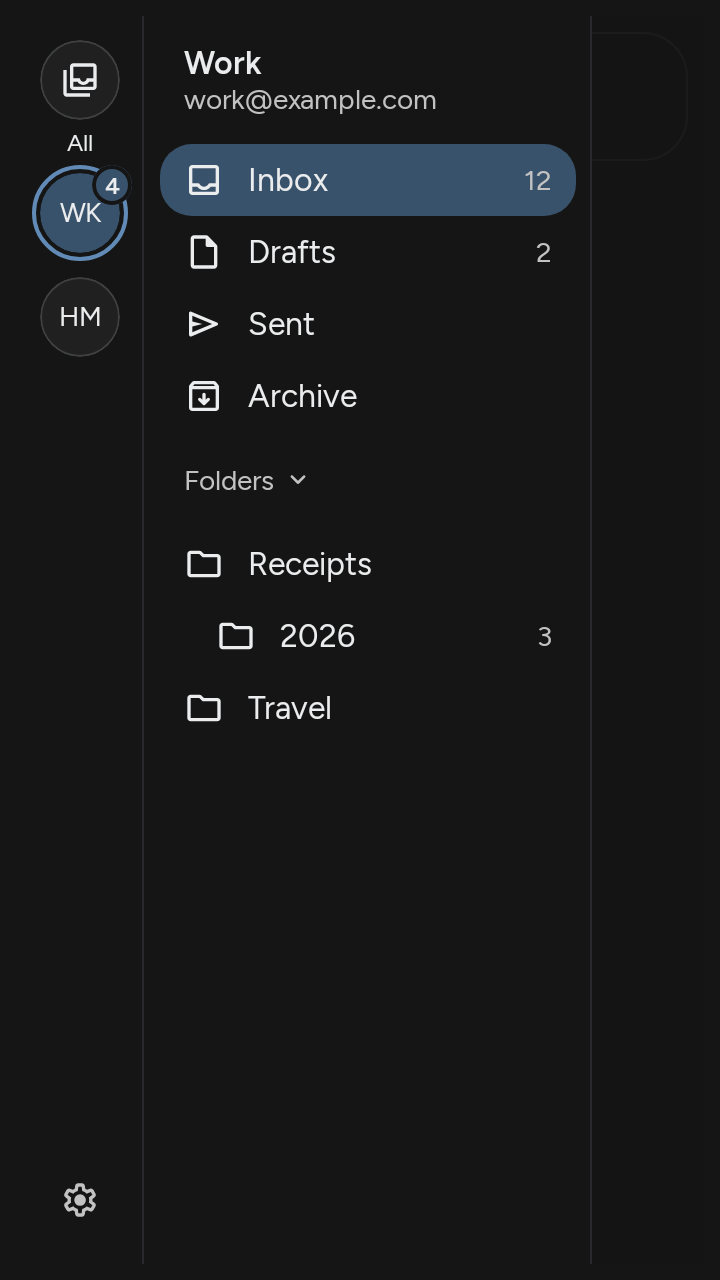
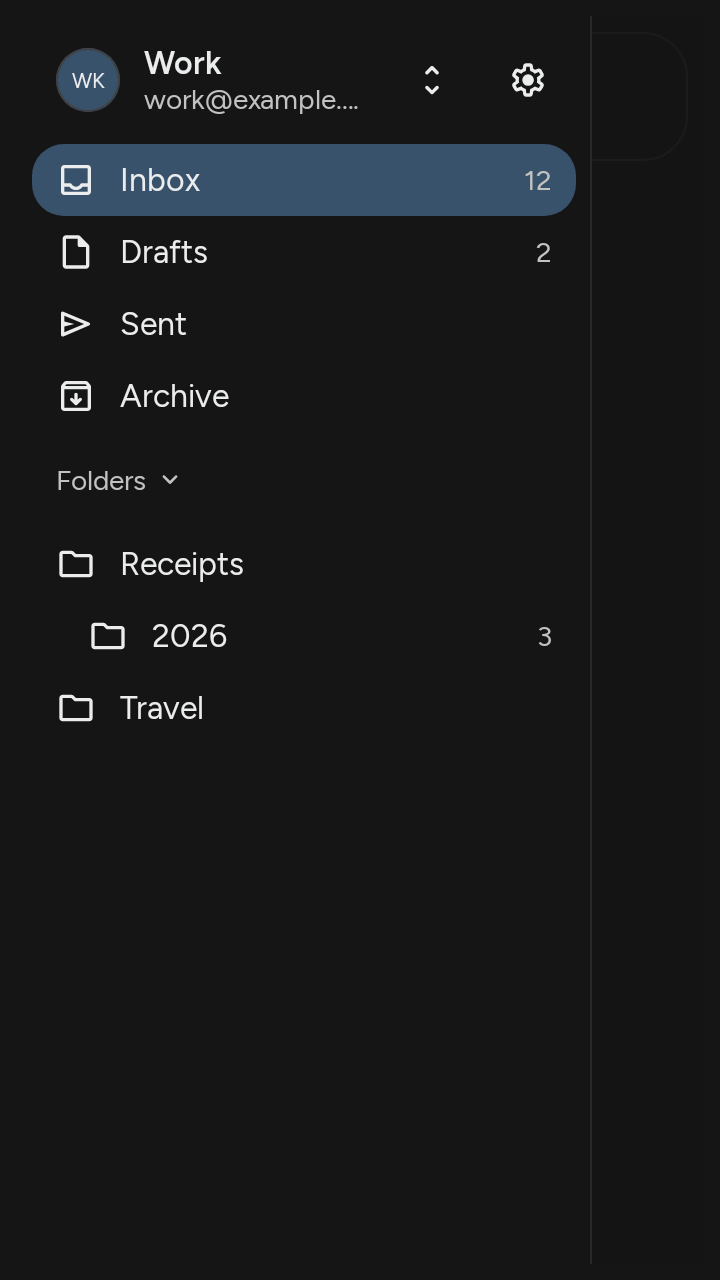
feat(design-system): add HtmlView for message bodies (#31)
* feat(design-system): add HtmlView for message bodies

- Show an HTML document in a platform web view: WebView on Android, WKWebView on iOS.
- Keep scripts off and block frames, forms, and outside resources with a Content Security Policy.
- Load remote images, styles, and fonts only with loadRemote, so tracking pixels stay blocked.
- Pass tapped web, mail, and phone links to onOpenLink; the view never navigates.
- Darken pages without their own dark colors on Android 13 and later.

* fix(designsystem): update screenshot tests for the new sidebar

- Give SidebarScreenshotTest the SidebarHeader that replaced the account rail, and record sidebar_open and sidebar_header.
- Remove SidebarRailItemScreenshotTest and its images, since #32 removed the rail elements.
- Name onClick in ContextMenuScreenshotTest, since MenuAction now takes icon second.
- Record reorderable_column_dragging, where #32 fills the dragged row with bgLight.

---------

diff --git a/designsystem/src/iosMain/kotlin/com/otus/designsystem/elements/HtmlView.ios.kt b/designsystem/src/iosMain/kotlin/com/otus/designsystem/elements/HtmlView.ios.kt
@@ -1,0 +1,70 @@
+package com.otus.designsystem.elements
+
+import androidx.compose.runtime.Composable
+import androidx.compose.runtime.getValue
+import androidx.compose.runtime.key
+import androidx.compose.runtime.remember
+import androidx.compose.runtime.rememberUpdatedState
+import androidx.compose.ui.Modifier
+import androidx.compose.ui.viewinterop.UIKitView
+import kotlinx.cinterop.ExperimentalForeignApi
+import kotlinx.cinterop.readValue
+import platform.CoreGraphics.CGRectZero
+import platform.WebKit.WKNavigationAction
+import platform.WebKit.WKNavigationActionPolicy
+import platform.WebKit.WKNavigationActionPolicy.WKNavigationActionPolicyAllow
+import platform.WebKit.WKNavigationActionPolicy.WKNavigationActionPolicyCancel
+import platform.WebKit.WKNavigationDelegateProtocol
+import platform.WebKit.WKNavigationTypeLinkActivated
+import platform.WebKit.WKWebView
+import platform.WebKit.WKWebViewConfiguration
+import platform.darwin.NSObject
+
+@OptIn(ExperimentalForeignApi::class)
+@Composable
+public actual fun HtmlView(
+    html: String,
+    loadRemote: Boolean,
+    onOpenLink: (String) -> Unit,
+    modifier: Modifier,
+) {
+    val openLink by rememberUpdatedState(onOpenLink)
+    val document = remember(html, loadRemote) { sandboxedHtml(html, loadRemote) }
+    // WebKit keeps only a weak reference to its delegate.
+    val delegate = remember { LinkDelegate { openLink(it) } }
+    key(document) {
+        UIKitView(
+            factory = {
+                val configuration =
+                    WKWebViewConfiguration().apply { defaultWebpagePreferences.allowsContentJavaScript = false }
+                WKWebView(CGRectZero.readValue(), configuration).apply {
+                    navigationDelegate = delegate
+                    setOpaque(false)
+                    loadHTMLString(document, baseURL = null)
+                }
+            },
+            modifier = modifier,
+        )
+    }
+}
+
+/** Allows only the document's own load; a tapped openable link goes to [onOpenLink]. */
+private class LinkDelegate(
+    private val onOpenLink: (String) -> Unit,
+) : NSObject(),
+    WKNavigationDelegateProtocol {
+    override fun webView(
+        webView: WKWebView,
+        decidePolicyForNavigationAction: WKNavigationAction,
+        decisionHandler: (WKNavigationActionPolicy) -> Unit,
+    ) {
+        val url =
+            decidePolicyForNavigationAction.request.URL
+                ?.absoluteString
+                .orEmpty()
+        val tapped = decidePolicyForNavigationAction.navigationType == WKNavigationTypeLinkActivated
+        if (tapped && isOpenableLink(url)) onOpenLink(url)
+        val ownLoad = url == "about:blank"
+        decisionHandler(if (ownLoad) WKNavigationActionPolicyAllow else WKNavigationActionPolicyCancel)
+    }
+}

diff --git a/designsystem/src/androidMain/kotlin/com/otus/designsystem/elements/HtmlView.android.kt b/designsystem/src/androidMain/kotlin/com/otus/designsystem/elements/HtmlView.android.kt
@@ -1,0 +1,73 @@
+package com.otus.designsystem.elements
+
+import android.content.Context
+import android.graphics.Color
+import android.os.Build
+import android.webkit.WebResourceRequest
+import android.webkit.WebView
+import android.webkit.WebViewClient
+import androidx.compose.runtime.Composable
+import androidx.compose.runtime.getValue
+import androidx.compose.runtime.key
+import androidx.compose.runtime.remember
+import androidx.compose.runtime.rememberUpdatedState
+import androidx.compose.ui.Modifier
+import androidx.compose.ui.viewinterop.AndroidView
+
+@Composable
+public actual fun HtmlView(
+    html: String,
+    loadRemote: Boolean,
+    onOpenLink: (String) -> Unit,
+    modifier: Modifier,
+) {
+    val openLink by rememberUpdatedState(onOpenLink)
+    val document = remember(html, loadRemote) { sandboxedHtml(html, loadRemote) }
+    // A new document gets a new view, so no page or setting of the last one carries over.
+    key(document) {
+        AndroidView(
+            factory = { context ->
+                sandboxedWebView(context, loadRemote) { openLink(it) }.apply {
+                    loadDataWithBaseURL(null, document, "text/html", "utf-8", null)
+                }
+            },
+            modifier = modifier,
+            onRelease = WebView::destroy,
+        )
+    }
+}
+
+/** Sets scripts and file access off even where that is the default, so a platform change cannot turn them on. */
+private fun sandboxedWebView(
+    context: Context,
+    loadRemote: Boolean,
+    onOpenLink: (String) -> Unit,
+): WebView =
+    WebView(context).apply {
+        setBackgroundColor(Color.TRANSPARENT)
+        settings.javaScriptEnabled = false
+        settings.allowFileAccess = false
+        settings.allowContentAccess = false
+        settings.blockNetworkLoads = !loadRemote
+        settings.loadWithOverviewMode = true
+        settings.useWideViewPort = true
+        settings.builtInZoomControls = true
+        settings.displayZoomControls = false
+        // Otus is dark, so pages without their own dark colors are darkened to match.
+        if (Build.VERSION.SDK_INT >= Build.VERSION_CODES.TIRAMISU) settings.isAlgorithmicDarkeningAllowed = true
+        webViewClient = LinkClient(onOpenLink)
+    }
+
+/** Keeps every navigation out of the view; a tapped openable link goes to [onOpenLink]. */
+private class LinkClient(
+    private val onOpenLink: (String) -> Unit,
+) : WebViewClient() {
+    override fun shouldOverrideUrlLoading(
+        view: WebView,
+        request: WebResourceRequest,
+    ): Boolean {
+        val url = request.url.toString()
+        if (request.isForMainFrame && request.hasGesture() && isOpenableLink(url)) onOpenLink(url)
+        return true
+    }
+}

diff --git a/designsystem/src/androidHostTest/kotlin/com/otus/designsystem/components/SidebarScreenshotTest.kt b/designsystem/src/androidHostTest/kotlin/com/otus/designsystem/components/SidebarScreenshotTest.kt
@@ -10,10 +10,7 @@ import androidx.compose.ui.unit.dp
 import com.otus.designsystem.elements.SidebarCount
 import com.otus.designsystem.elements.SidebarEntry
 import com.otus.designsystem.elements.SidebarHeading
-import com.otus.designsystem.elements.SidebarRailAccount
-import com.otus.designsystem.elements.SidebarRailIcon
 import com.otus.designsystem.resources.Res
-import com.otus.designsystem.resources.symbol_all_inbox
 import com.otus.designsystem.resources.symbol_archive
 import com.otus.designsystem.resources.symbol_draft
 import com.otus.designsystem.resources.symbol_folder
@@ -47,7 +44,7 @@ class SidebarScreenshotTest {
         }
 
     @Test
-    fun rail() = compose.screenshot("sidebar_rail") { Box(Modifier.height(320.dp)) { Rail() } }
+    fun header() = compose.screenshot("sidebar_header") { Box(Modifier.height(80.dp)) { Header() } }
 
     @Composable
     private fun PageWithSidebar(state: SidebarState) =
@@ -55,16 +52,19 @@ class SidebarScreenshotTest {
             SidebarSwipeArea(state) {
                 PageScaffold("Inbox", navigationLabel = "Open navigation", onNavigation = {}) {}
             }
-            Sidebar(state, title = "Work", subtitle = "work@example.com", rail = { Rail() }) { Entries() }
+            Sidebar(state, title = "Work", header = { Header() }) { Entries() }
         }
 
     @Composable
-    private fun Rail() =
-        SidebarRail(onSettings = {}) {
-            SidebarRailIcon(Res.drawable.symbol_all_inbox, "All", "All accounts", selected = false, {})
-            SidebarRailAccount("WK", "Work account", selected = true, {}, badge = "4")
-            SidebarRailAccount("HM", "Home account", selected = false, {})
-        }
+    private fun Header() =
+        SidebarHeader(
+            "Work",
+            listOf(ChipAvatar("WK", colorIndex = 0)),
+            pickLabel = "Show mail from",
+            onPick = {},
+            onSettings = {},
+            subtitle = "work@example.com",
+        )
 
     @Composable
     private fun Entries() {

diff --git a/designsystem/src/commonMain/kotlin/com/otus/designsystem/elements/HtmlView.kt b/designsystem/src/commonMain/kotlin/com/otus/designsystem/elements/HtmlView.kt
@@ -1,0 +1,43 @@
+package com.otus.designsystem.elements
+
+import androidx.compose.runtime.Composable
+import androidx.compose.ui.Modifier
+
+/**
+ * Shows an HTML document, such as a message body, and scrolls it inside its own bounds. Scripts
+ * never run, and frames, forms, and plugins stay blocked. A tapped web, mail, or phone link goes
+ * to [onOpenLink] instead of opening in the view; other links do nothing. Remote images, styles,
+ * and fonts load only while [loadRemote] is true, so a message cannot report that it was read.
+ */
+@Composable
+public expect fun HtmlView(
+    html: String,
+    loadRemote: Boolean,
+    onOpenLink: (String) -> Unit,
+    modifier: Modifier = Modifier,
+)
+
+/**
+ * [html] behind a Content Security Policy that blocks every outside resource except, with
+ * [loadRemote], images, styles, and fonts. The policy and base styles come first, so the
+ * document's own markup cannot load anything before the policy applies. A policy the document
+ * declares itself can only block more.
+ */
+internal fun sandboxedHtml(
+    html: String,
+    loadRemote: Boolean,
+): String {
+    val remote = if (loadRemote) " http: https:" else ""
+    val policy =
+        "default-src 'none'; img-src data:$remote; style-src 'unsafe-inline'$remote; " +
+            "font-src data:$remote; form-action 'none'"
+    return "<meta http-equiv=\"Content-Security-Policy\" content=\"$policy\">" +
+        "<meta name=\"viewport\" content=\"width=device-width\">" +
+        "<style>body{margin:0;overflow-wrap:anywhere}img{max-width:100%;height:auto}</style>" +
+        html
+}
+
+/** Whether [HtmlView] passes [url] on: web, mail, and phone links, never app or file links. */
+internal fun isOpenableLink(url: String): Boolean = url.substringBefore(':').lowercase() in OPENABLE_SCHEMES
+
+private val OPENABLE_SCHEMES = setOf("http", "https", "mailto", "tel")

diff --git a/designsystem/src/commonTest/kotlin/com/otus/designsystem/elements/HtmlViewTest.kt b/designsystem/src/commonTest/kotlin/com/otus/designsystem/elements/HtmlViewTest.kt
@@ -1,0 +1,42 @@
+package com.otus.designsystem.elements
+
+import kotlin.test.Test
+import kotlin.test.assertContains
+import kotlin.test.assertEquals
+import kotlin.test.assertFalse
+import kotlin.test.assertTrue
+
+class HtmlViewTest {
+    @Test
+    fun policyComesBeforeTheDocument() {
+        val html = "<img src=\"https://tracker.example/p.gif\">"
+        val sandboxed = sandboxedHtml(html, loadRemote = false)
+        assertTrue(sandboxed.startsWith("<meta http-equiv=\"Content-Security-Policy\""))
+        assertTrue(sandboxed.endsWith(html))
+    }
+
+    @Test
+    fun blocksRemoteResourcesUntilAllowed() {
+        val blocked = policyOf(sandboxedHtml("", loadRemote = false))
+        assertEquals(
+            "default-src 'none'; img-src data:; style-src 'unsafe-inline'; font-src data:; form-action 'none'",
+            blocked,
+        )
+        val allowed = policyOf(sandboxedHtml("", loadRemote = true))
+        assertContains(allowed, "img-src data: http: https:")
+        assertContains(allowed, "default-src 'none'")
+        assertFalse("script-src" in allowed)
+    }
+
+    @Test
+    fun opensOnlyWebMailAndPhoneLinks() {
+        listOf("https://otus.example", "HTTP://otus.example", "mailto:a@otus.example", "tel:+41").forEach {
+            assertTrue(isOpenableLink(it), it)
+        }
+        listOf("intent://scan", "file:///etc/hosts", "javascript:alert(1)", "about:blank", "relative/path").forEach {
+            assertFalse(isOpenableLink(it), it)
+        }
+    }
+
+    private fun policyOf(document: String): String = document.substringAfter("content=\"").substringBefore('"')
+}

diff --git a/designsystem/src/androidHostTest/kotlin/com/otus/designsystem/components/ContextMenuScreenshotTest.kt b/designsystem/src/androidHostTest/kotlin/com/otus/designsystem/components/ContextMenuScreenshotTest.kt
@@ -24,7 +24,8 @@ class ContextMenuScreenshotTest {
     @get:Rule
     val compose = createComposeRule()
 
-    private val actions = listOf(MenuAction("Rename", {}), MenuAction("Duplicate", {}), MenuAction("Delete theme", {}))
+    private val actions =
+        listOf("Rename", "Duplicate", "Delete theme").map { MenuAction(it, onClick = {}) }
 
     @Test
     fun atPoint() = compose.screenScreenshot("context_menu") { Page(Offset(120f, 300f)) }

diff --git a/docs/designsystem.md b/docs/designsystem.md
@@ -3,6 +3,8 @@
 The `designsystem` module (`com.otus.designsystem`, artifact `com.otus:designsystem`) holds the
 Otus theme, elements, and components. It moved here from otus-mail in version 0.2.0. Elements and
 components take values and callbacks; they own no ViewModels, navigation, networking, or storage.
+`HtmlView` is the one exception: with `loadRemote`, its web view fetches the images, styles, and
+fonts the document names.
 The user picks one of four themes and an accent color. Changing any single color saves a custom
 theme. The Otus theme with Otus blue is the palette recorded in [mail design foundations](suite/mail-design.md). See
 [decision 0014](decisions/0014-user-themes.md).
@@ -18,7 +20,7 @@ theme. The Otus theme with Otus blue is the palette recorded in [mail design fou
   `FolderRowTokens`).
   `panelTextStyle()` uses Figtree.
 - `elements`: `ActionButton`, `ActionRow`, `AnimatedText`, `Avatar`, `AvatarImage`, `BarIconButton`, `CalendarDay`,
-  `ComposeBody`, `ComposeField`, `ComposeValueField`,
+  `ComposeBody`, `ComposeField`, `ComposeValueField`, `HtmlView`,
   `CalendarMonthBackground`, `Chip`, `ColorSlider`, `ColorSwatch`, `AddSwatch`, `SwatchStack`, `IconButton`, `IconPill`, `InputField`, `LabelPill`, `RefreshIndicator`,
   `FolderColorSwatch`, `LocalIconTint`, `RowButton`, `SearchField`, `SearchPrompt`, `SelectionRow`, `SidebarEntry`, `SidebarHeading`,
   `SidebarCount`, `SidebarExpandButton`, `SidebarPill`, `SidebarInboxEntry`, `SidebarMailboxTile`,

diff --git a/docs/suite/jmap-features.md b/docs/suite/jmap-features.md
@@ -110,7 +110,7 @@ app sees Read later as an ordinary folder.
 | `Email/set` keyword patch | Used | Read and unread (`$seen`), flagged (`$flagged`). |
 | `Email/set` `mailboxIds` patch | Used | Move, Archive, Trash, Read later, rule backfill. Batched within `maxObjectsInSet`. |
 | `Email/set` create and destroy drafts | In progress | Compose saves to the `drafts` role folder on `feat/action-bar`. |
-| HTML bodies (`htmlBody`) | Planned | Reader, [Mail #25](https://github.com/reazndev/otus-mail/issues/25). Today the app shows plain text only. |
+| HTML bodies (`htmlBody`) | Partial | Mail renders an open message's HTML body in `HtmlView` with scripts off and remote images hidden until the user shows them. Inline `cid:` images are not loaded yet. See [Mail #25](https://github.com/reazndev/otus-mail/issues/25). |
 | Headers beyond From and Subject (`to`, `cc`, `messageId`, `references`) | In progress | Compose reads them for replies on `feat/action-bar`. |
 | Attachment download | Planned | Mail #25. Rows show attachment names only. |
 | Server-side search (`text`, `from`, `subject` filters) | Planned | [Mail #23](https://github.com/reazndev/otus-mail/issues/23) plans local and server evaluation. Today search filters loaded messages on the device. |

diff --git a/CHANGELOG.md b/CHANGELOG.md
@@ -2,6 +2,11 @@
 
 ## Unreleased
 
+- Add `HtmlView`, which shows an HTML document such as a message body in a platform web view.
+  Scripts never run. A Content Security Policy blocks frames, forms, and every outside resource
+  except remote images, styles, and fonts, which load only with `loadRemote`. Tapped web, mail,
+  and phone links go to `onOpenLink`; the view never navigates. On Android 13 and later, pages
+  without their own dark colors are darkened to match the theme.
 - Add `TrailingIcons`, two touch-target-wide slots at a row's end. `FolderSettingRow` and
   `AccountGroupRow` use it, so their icons line up in the same two columns.
 - Add `InputSheet`, `InputDialog`'s text field in a `SheetFrame`.
